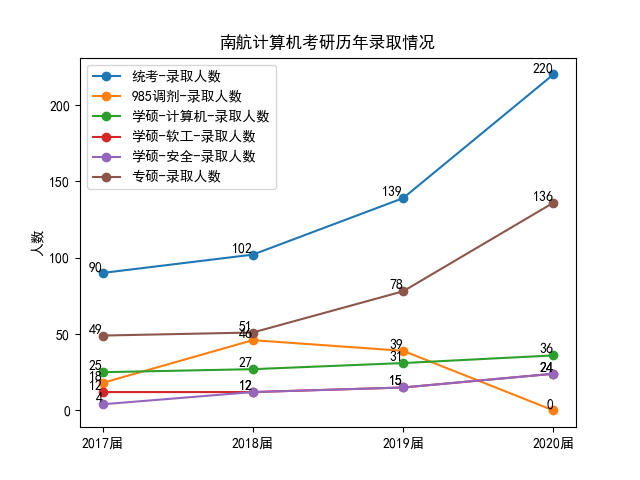
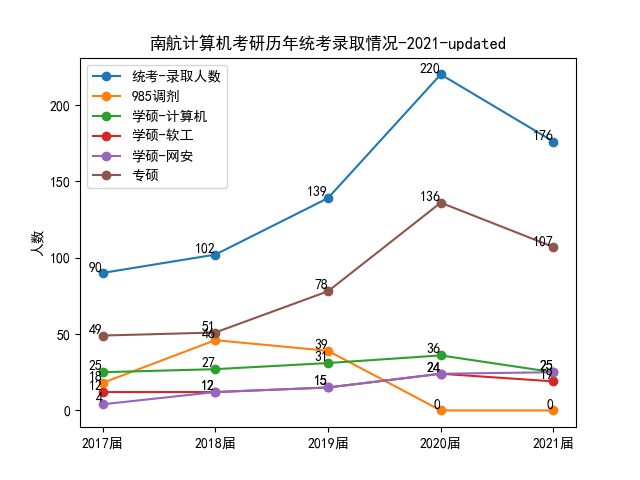
2021 考研结果分析

diff --git a/plot.py b/plot.py
@@ -15,26 +15,26 @@ plt.rcParams['axes.unicode_minus'] = False
 line_marker = '-o'
 
 
-x = [1, 2, 3, 4]
+x = [1, 2, 3, 4, 5]
 # data
-x_label = ["2017届", "2018届", "2019届", "2020届"]
-y_统考_录取人数 = [90, 102, 139, 220]
-y_985调剂_录取人数 = [18, 46, 39, 0]
-y_学硕_计算机_录取人数 = [25, 27, 31, 36]
-y_学硕_软工_录取人数 = [12, 12, 15, 24]
-y_学硕_网安_录取人数 = [4, 12, 15, 24]
-y_专硕_录取人数 = [49, 51, 78, 136]
+x_label = ["2017届", "2018届", "2019届", "2020届", "2021届"]
+y_统考_录取人数 = [90, 102, 139, 220, 176]
+y_985调剂_录取人数 = [18, 46, 39, 0, 0]
+y_学硕_计算机_录取人数 = [25, 27, 31, 36, 25]
+y_学硕_软工_录取人数 = [12, 12, 15, 24, 19]
+y_学硕_网安_录取人数 = [4, 12, 15, 24, 25]
+y_专硕_录取人数 = [49, 51, 78, 136, 107]
 
 y_list = [(y_统考_录取人数, "统考-录取人数"),
-          (y_985调剂_录取人数, "985调剂-录取人数"),
-          (y_学硕_计算机_录取人数, "学硕-计算机-录取人数"),
-          (y_学硕_软工_录取人数, "学硕-软工-录取人数"),
-          (y_学硕_网安_录取人数, "学硕-安全-录取人数"),
-          (y_专硕_录取人数, "专硕-录取人数")]
+          (y_985调剂_录取人数, "985调剂"),
+          (y_学硕_计算机_录取人数, "学硕-计算机"),
+          (y_学硕_软工_录取人数, "学硕-软工"),
+          (y_学硕_网安_录取人数, "学硕-网安"),
+          (y_专硕_录取人数, "专硕")]
 
 plt.xticks(x, x_label)
 plt.ylabel("人数")
-plt.title("南航计算机考研历年录取情况")
+plt.title("南航计算机考研历年统考录取情况-2021-updated")
 
 for y in y_list[:]:
     plt.plot(x, y[0], "-o", label=y[1])
@@ -44,5 +44,4 @@ for y in y_list[:]:
 plt.legend(loc='upper left')
 plt.savefig(image_path + "visualization.png", dip=300)
 
-plt.show()
 

diff --git a/analysis.py b/analysis.py
@@ -1,0 +1,32 @@
+# -*- coding: utf-8 -*-
+import pandas as pd
+import matplotlib.pyplot as plt
+
+# config
+plt.rcParams[u'font.sans-serif'] = ['simhei']
+plt.rcParams['axes.unicode_minus'] = False
+line_marker = '-o'
+
+file = "data_clean/2021录取数据.txt"
+with open(file, 'r', encoding="utf8") as fr:
+    lines = fr.readlines()
+
+data = []
+for line in lines:
+    if not line.startswith("08"):
+        continue
+    infos = line.split(" ")
+    data.append({
+        "专业": infos[1],
+        "初试": int(infos[4]),
+        "复试": float(infos[5]),
+        "总分": float(infos[6]),
+    })
+
+pd_data = pd.DataFrame(data)
+pd_data_group_describe = pd_data.groupby(["专业"]).describe()
+pd_data_group_describe.to_csv("test.csv", encoding="utf8")
+print(pd_data_group_describe)
+ax = pd_data_group_describe.plot(figsize=(10, 8))
+fig = ax.get_figure()
+fig.savefig('test.png', dip=300)
